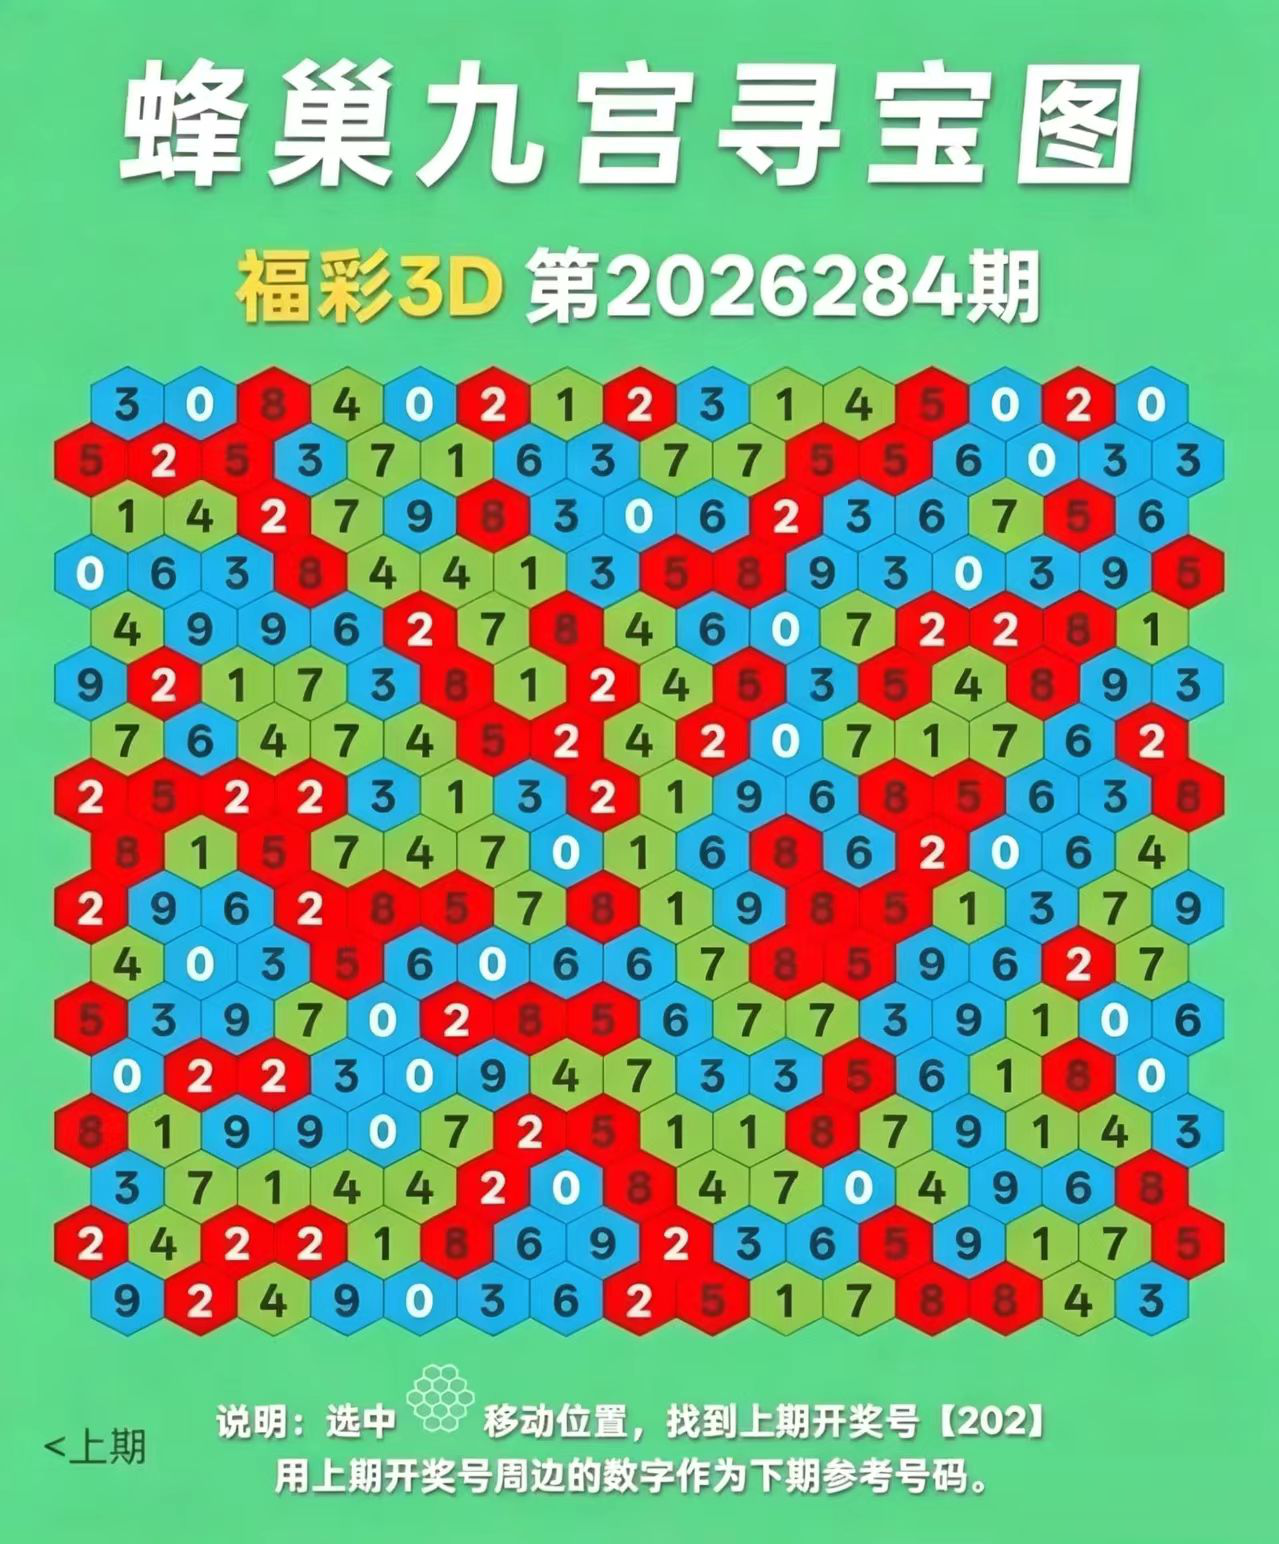
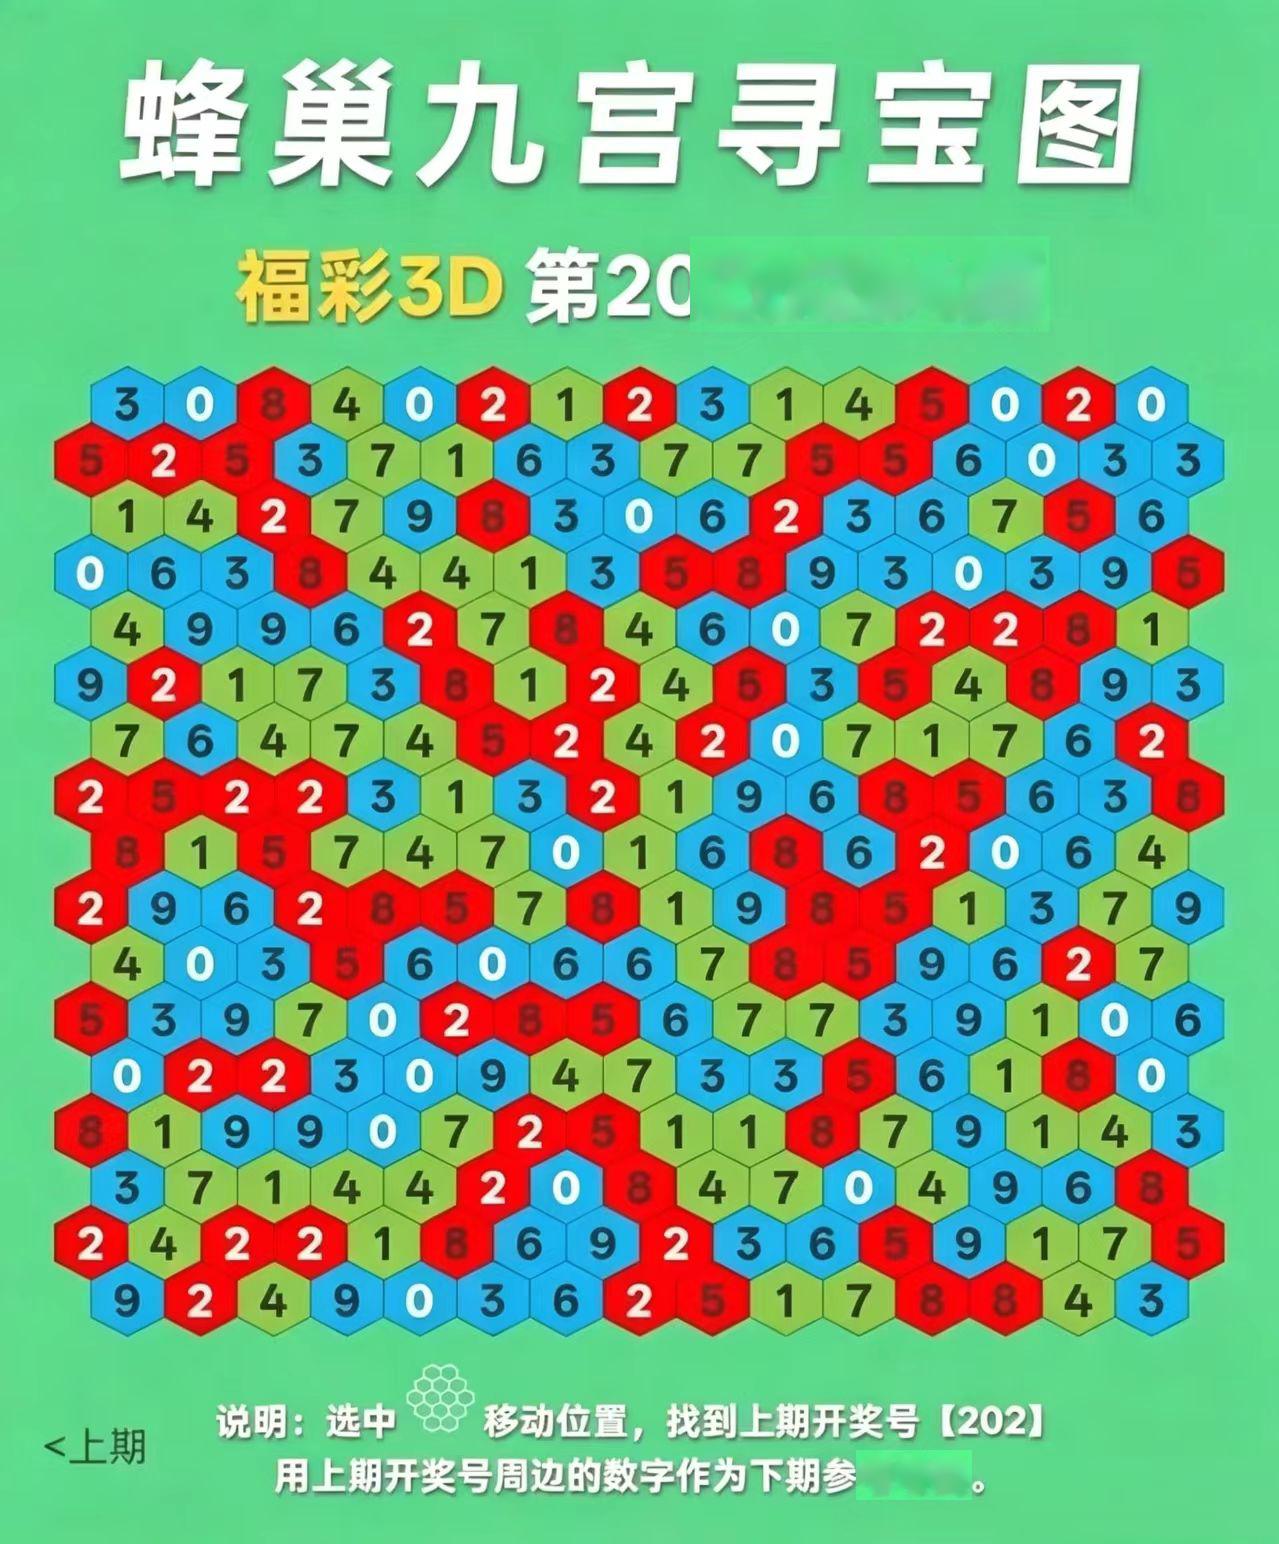
feat: fix honeycomb base and move only the 14-cell window

Changed region(s): [[0.5184, 0.1554, 0.8233, 0.2176], [0.6708, 0.9326, 0.7623, 0.9948]]

diff --git a/index.html b/index.html
@@ -965,7 +965,8 @@ const HC = {
   x0: 134.34,
   y0: 403.66,
   rowShift: 36.079,
-  frameWidth: 9
+  frameWidth: 9,
+  font: "'Microsoft YaHei','PingFang SC','Noto Sans CJK SC',sans-serif"
 };
 let hcBaseCache = null;
 
@@ -1124,8 +1125,13 @@ function hcBuildChart(base, prevNumber, issue) {
   if (!windowCells) return null;
   const outline = hcOutlinePath(windowCells);
   const pool = windowCells.map(cell => base.digits[cell.r][cell.c]).join(' ');
+  const issueLabel = '第' + issue + '期';
+  const titleAttrs = 'x="870" y="320" text-anchor="middle" font-family="' + HC.font + '" font-size="74" font-weight="900" textLength="340" lengthAdjust="spacingAndGlyphs"';
   const svg = '<svg viewBox="0 0 ' + HC.imageW + ' ' + HC.imageH + '" xmlns="http://www.w3.org/2000/svg" role="img" aria-label="蜂巢九宫寻宝图，第' + issue + '期">' +
     '<image href="' + HC.image + '" x="0" y="0" width="' + HC.imageW + '" height="' + HC.imageH + '" preserveAspectRatio="none"/>' +
+    '<text ' + titleAttrs + ' fill="#fff" stroke="#e9a72f" stroke-width="9" paint-order="stroke">' + issueLabel + '</text>' +
+    '<text ' + titleAttrs + ' fill="#fff" stroke="#5b0b08" stroke-width="5" paint-order="stroke">' + issueLabel + '</text>' +
+    '<text x="913" y="1490" text-anchor="middle" font-family="' + HC.font + '" font-size="44" font-weight="700" fill="#fff" textLength="104" lengthAdjust="spacing">' + prevNumber + '</text>' +
     '<path d="' + outline + '" fill="none" stroke="rgba(0,60,20,.18)" stroke-width="' + (HC.frameWidth + 4) + '" stroke-linejoin="round" stroke-linecap="round"/>' +
     '<path d="' + outline + '" fill="none" stroke="#fff" stroke-width="' + HC.frameWidth + '" stroke-linejoin="round" stroke-linecap="round"/>' +
     '</svg>';
@@ -1144,7 +1150,7 @@ function buildHoneycombCard(staticDraws, base) {
     '<div class="hc-info">' +
       '<div class="hc-pool"><span class="hc-pool-label">窗口参考号</span>' + chips +
         '<button class="hc-copy" type="button" data-pool="' + chart.pool + '">复制</button></div>' +
-      '<p class="hc-note">底图固定为第' + escapeHtml(base.issue || '2026284') + '期，仅移动14格白框；仅供娱乐参考。</p>' +
+      '<p class="hc-note">底图数字和颜色固定；期号与上期开奖号自动更新，仅移动14格白框；仅供娱乐参考。</p>' +
     '</div>' +
   '</article>';
 }
